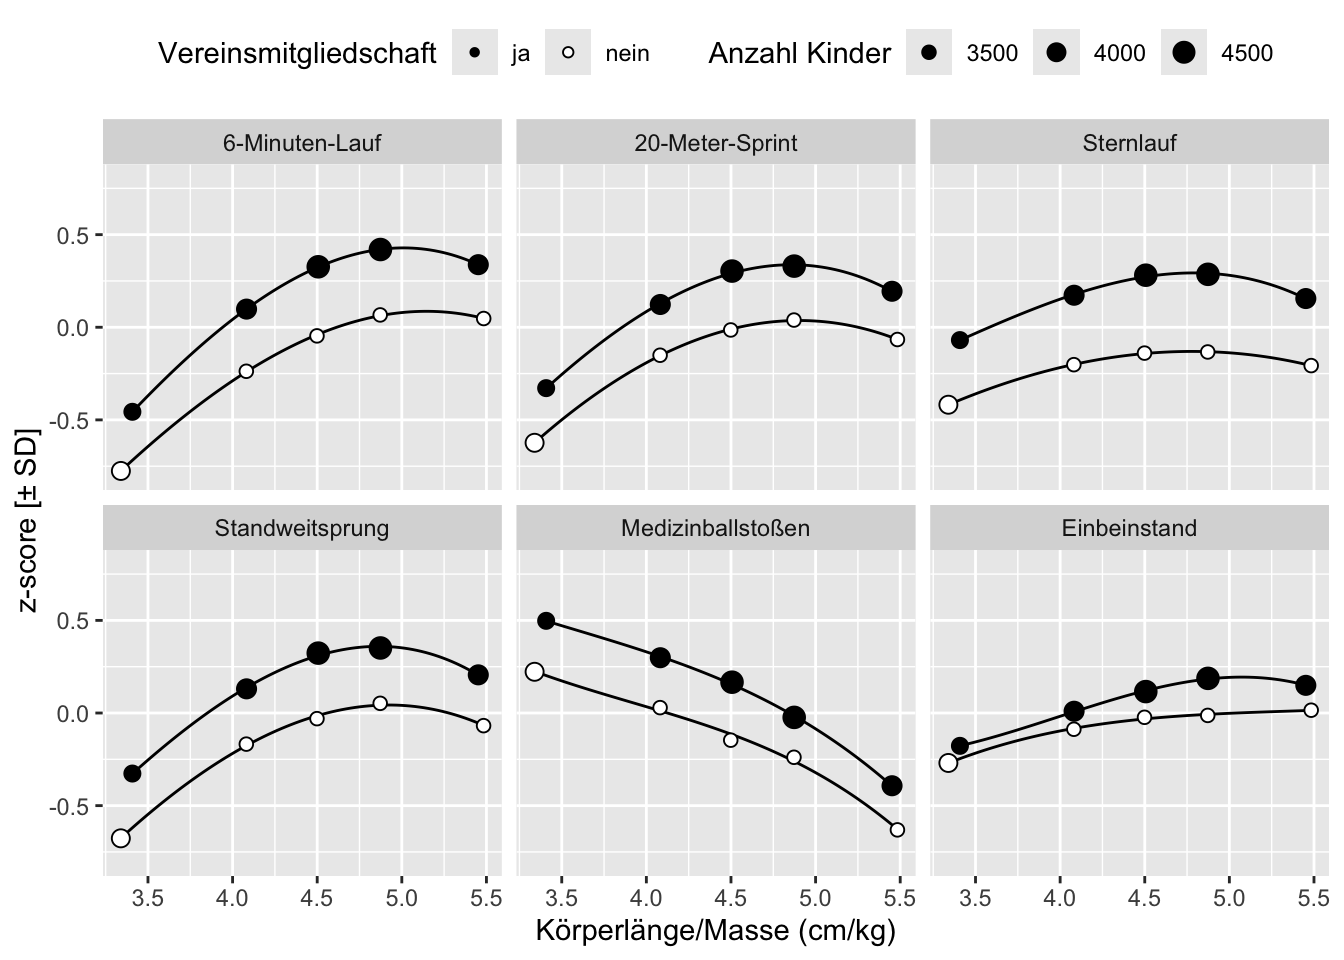
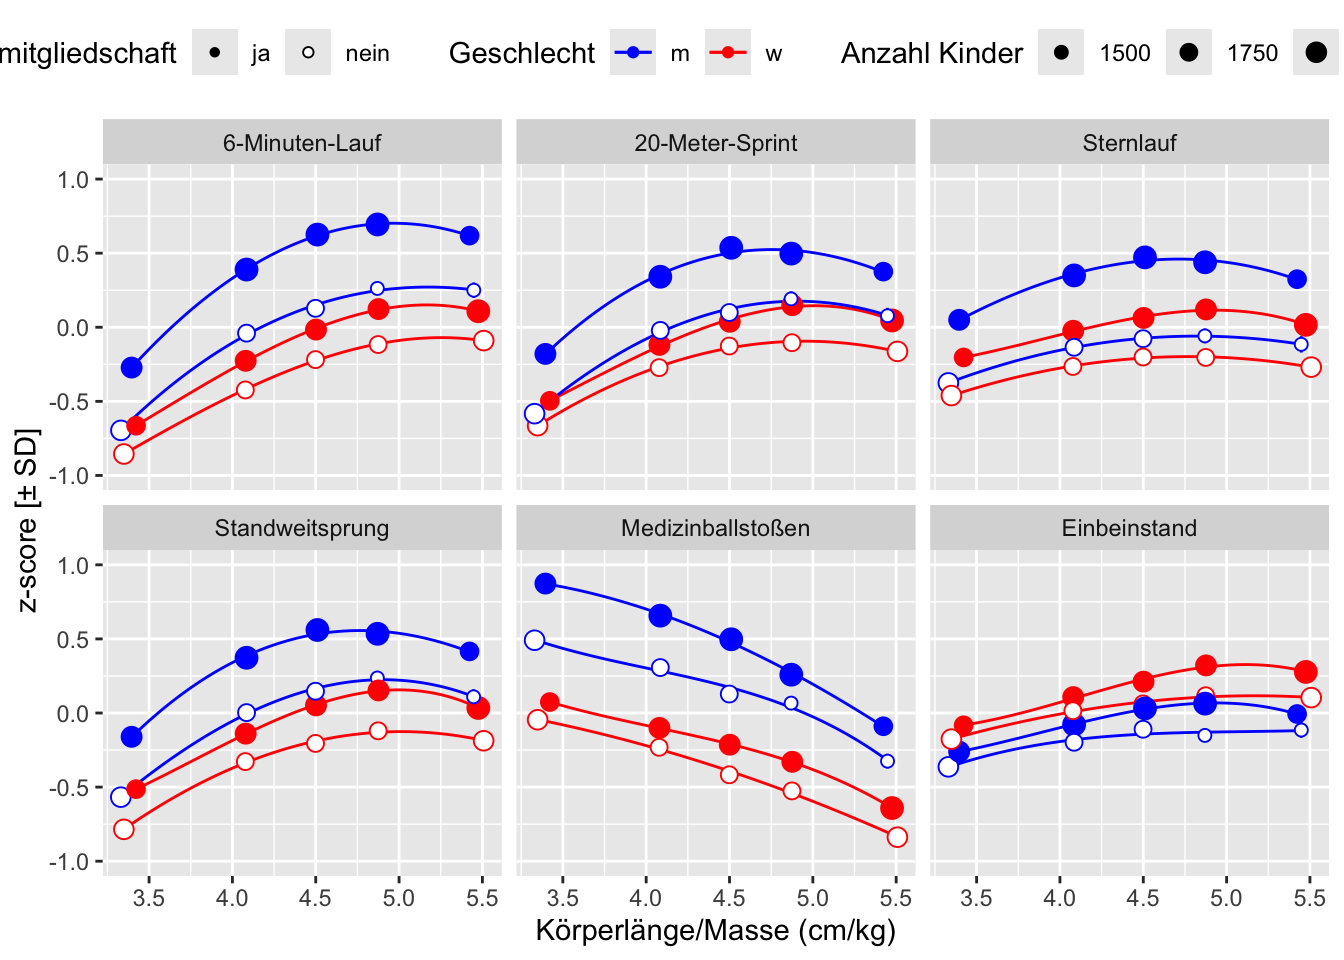
014

diff --git a/docs/014.html b/docs/014.html
@@ -289,8 +289,8 @@ ul.task-list li input[type="checkbox"] {
 <div class="cell">
 <div class="cell-output-display">
 
-<div class="reactable html-widget html-fill-item" id="htmlwidget-490af46685da29229710" style="width:auto;height:auto;"></div>
-<script type="application/json" data-for="htmlwidget-490af46685da29229710">{"x":{"tag":{"name":"Reactable","attribs":{"data":{"Component":["6-Minuten-Lauf","6-Minuten-Lauf","6-Minuten-Lauf","6-Minuten-Lauf","6-Minuten-Lauf","6-Minuten-Lauf","6-Minuten-Lauf","6-Minuten-Lauf","6-Minuten-Lauf","6-Minuten-Lauf","20-Meter-Sprint","20-Meter-Sprint","20-Meter-Sprint","20-Meter-Sprint","20-Meter-Sprint","20-Meter-Sprint","20-Meter-Sprint","20-Meter-Sprint","20-Meter-Sprint","20-Meter-Sprint","Sternlauf","Sternlauf","Sternlauf","Sternlauf","Sternlauf","Sternlauf","Sternlauf","Sternlauf","Sternlauf","Sternlauf","Standweitsprung","Standweitsprung","Standweitsprung","Standweitsprung","Standweitsprung","Standweitsprung","Standweitsprung","Standweitsprung","Standweitsprung","Standweitsprung","Medizinballstoßen","Medizinballstoßen","Medizinballstoßen","Medizinballstoßen","Medizinballstoßen","Medizinballstoßen","Medizinballstoßen","Medizinballstoßen","Medizinballstoßen","Medizinballstoßen","Einbeinstand","Einbeinstand","Einbeinstand","Einbeinstand","Einbeinstand","Einbeinstand","Einbeinstand","Einbeinstand","Einbeinstand","Einbeinstand"],"Hmr":["[2.5,3.82]","[2.5,3.82]","(3.82,4.31]","(3.82,4.31]","(4.31,4.67]","(4.31,4.67]","(4.67,5.08]","(4.67,5.08]","(5.08,6.5]","(5.08,6.5]","[2.5,3.82]","[2.5,3.82]","(3.82,4.31]","(3.82,4.31]","(4.31,4.67]","(4.31,4.67]","(4.67,5.08]","(4.67,5.08]","(5.08,6.5]","(5.08,6.5]","[2.5,3.82]","[2.5,3.82]","(3.82,4.31]","(3.82,4.31]","(4.31,4.67]","(4.31,4.67]","(4.67,5.08]","(4.67,5.08]","(5.08,6.5]","(5.08,6.5]","[2.5,3.82]","[2.5,3.82]","(3.82,4.31]","(3.82,4.31]","(4.31,4.67]","(4.31,4.67]","(4.67,5.08]","(4.67,5.08]","(5.08,6.5]","(5.08,6.5]","[2.5,3.82]","[2.5,3.82]","(3.82,4.31]","(3.82,4.31]","(4.31,4.67]","(4.31,4.67]","(4.67,5.08]","(4.67,5.08]","(5.08,6.5]","(5.08,6.5]","[2.5,3.82]","[2.5,3.82]","(3.82,4.31]","(3.82,4.31]","(4.31,4.67]","(4.31,4.67]","(4.67,5.08]","(4.67,5.08]","(5.08,6.5]","(5.08,6.5]"],"Club":["ja","nein","ja","nein","ja","nein","ja","nein","ja","nein","ja","nein","ja","nein","ja","nein","ja","nein","ja","nein","ja","nein","ja","nein","ja","nein","ja","nein","ja","nein","ja","nein","ja","nein","ja","nein","ja","nein","ja","nein","ja","nein","ja","nein","ja","nein","ja","nein","ja","nein","ja","nein","ja","nein","ja","nein","ja","nein","ja","nein"],"N":[3856,3818,4472,3358,4674,3192,4509,3030,4319,3140,3857,3828,4469,3357,4677,3192,4516,3030,4321,3142,3860,3829,4471,3360,4676,3192,4518,3032,4320,3142,3859,3829,4472,3359,4676,3193,4517,3032,4321,3143,3858,3829,4470,3360,4676,3192,4517,3032,4322,3144,3860,3829,4472,3360,4677,3193,4518,3032,4322,3144],"value":[2.49,2.36,2.71,2.57,2.8,2.65,2.84,2.7,2.81,2.69,4.41,4.28,4.59,4.48,4.67,4.54,4.68,4.56,4.62,4.52,1.93,1.82,2,1.88,2.03,1.9,2.03,1.91,1.99,1.88,121.35,114.18,130.71,124.6,134.66,127.42,135.23,129.11,132.26,126.64,4.25,4.05,4.1,3.91,4.01,3.78,3.87,3.71,3.6,3.43,15.79,14.31,18.78,17.22,20.48,18.25,21.62,18.42,21.02,18.87],"value_sd":[0.38,0.39,0.39,0.36,0.38,0.37,0.37,0.35,0.36,0.36,0.41,0.4,0.4,0.4,0.4,0.4,0.39,0.4,0.39,0.39,0.28,0.28,0.3,0.3,0.3,0.29,0.3,0.29,0.3,0.29,19.69,19.72,20.13,19.88,19.71,19.95,19.16,19.3,18.6,18.82,0.75,0.73,0.74,0.69,0.71,0.67,0.66,0.65,0.64,0.64,13.89,12.86,15.95,15.11,16.87,15.74,17.71,15.69,17.15,16.11],"Component_unit":["m/s","m/s","m/s","m/s","m/s","m/s","m/s","m/s","m/s","m/s","m/s","m/s","m/s","m/s","m/s","m/s","m/s","m/s","m/s","m/s","m/s","m/s","m/s","m/s","m/s","m/s","m/s","m/s","m/s","m/s","cm","cm","cm","cm","cm","cm","cm","cm","cm","cm","m","m","m","m","m","m","m","m","m","m","s","s","s","s","s","s","s","s","s","s"],"zScore_mean":[-0.46,-0.78,0.1,-0.24,0.33,-0.05,0.42,0.07,0.34,0.05,-0.33,-0.62,0.12,-0.15,0.3,-0.01,0.33,0.04,0.19,-0.07,-0.07,-0.42,0.17,-0.2,0.28,-0.14,0.29,-0.13,0.16,-0.21,-0.33,-0.68,0.13,-0.17,0.32,-0.03,0.35,0.05,0.21,-0.07,0.5,0.22,0.3,0.03,0.17,-0.15,-0.02,-0.24,-0.39,-0.63,-0.18,-0.27,0.01,-0.09,0.12,-0.02,0.19,-0.01,0.15,0.02]},"columns":[{"id":"Component","name":"Test","type":"factor"},{"id":"Hmr","name":"Körperlänge/Masse (cm/kg) Intervall","type":"factor"},{"id":"Club","name":"Vereinsmitgliedschaft","type":"character"},{"id":"N","name":"Anzahl Kinder","type":"numeric"},{"id":"value","name":"Mittelwert","type":"numeric"},{"id":"value_sd","name":"Standardabweichung","type":"numeric"},{"id":"Component_unit","name":"Einheit","type":"factor"},{"id":"zScore_mean","name":"zScore","type":"numeric"}],"pagination":false,"style":{"fontFamily":"Work Sans, sans-serif","fontSize":"0.75rem"},"dataKey":"8b50959dec6fc523c6f9b631bcb43260"},"children":[]},"class":"reactR_markup"},"evals":[],"jsHooks":[]}</script>
+<div class="reactable html-widget html-fill-item" id="htmlwidget-622e6b23fd4533e878f8" style="width:auto;height:auto;"></div>
+<script type="application/json" data-for="htmlwidget-622e6b23fd4533e878f8">{"x":{"tag":{"name":"Reactable","attribs":{"data":{"Component":["6-Minuten-Lauf","6-Minuten-Lauf","6-Minuten-Lauf","6-Minuten-Lauf","6-Minuten-Lauf","6-Minuten-Lauf","6-Minuten-Lauf","6-Minuten-Lauf","6-Minuten-Lauf","6-Minuten-Lauf","6-Minuten-Lauf","6-Minuten-Lauf","6-Minuten-Lauf","6-Minuten-Lauf","6-Minuten-Lauf","6-Minuten-Lauf","6-Minuten-Lauf","6-Minuten-Lauf","6-Minuten-Lauf","6-Minuten-Lauf","20-Meter-Sprint","20-Meter-Sprint","20-Meter-Sprint","20-Meter-Sprint","20-Meter-Sprint","20-Meter-Sprint","20-Meter-Sprint","20-Meter-Sprint","20-Meter-Sprint","20-Meter-Sprint","20-Meter-Sprint","20-Meter-Sprint","20-Meter-Sprint","20-Meter-Sprint","20-Meter-Sprint","20-Meter-Sprint","20-Meter-Sprint","20-Meter-Sprint","20-Meter-Sprint","20-Meter-Sprint","Sternlauf","Sternlauf","Sternlauf","Sternlauf","Sternlauf","Sternlauf","Sternlauf","Sternlauf","Sternlauf","Sternlauf","Sternlauf","Sternlauf","Sternlauf","Sternlauf","Sternlauf","Sternlauf","Sternlauf","Sternlauf","Sternlauf","Sternlauf","Standweitsprung","Standweitsprung","Standweitsprung","Standweitsprung","Standweitsprung","Standweitsprung","Standweitsprung","Standweitsprung","Standweitsprung","Standweitsprung","Standweitsprung","Standweitsprung","Standweitsprung","Standweitsprung","Standweitsprung","Standweitsprung","Standweitsprung","Standweitsprung","Standweitsprung","Standweitsprung","Medizinballstoßen","Medizinballstoßen","Medizinballstoßen","Medizinballstoßen","Medizinballstoßen","Medizinballstoßen","Medizinballstoßen","Medizinballstoßen","Medizinballstoßen","Medizinballstoßen","Medizinballstoßen","Medizinballstoßen","Medizinballstoßen","Medizinballstoßen","Medizinballstoßen","Medizinballstoßen","Medizinballstoßen","Medizinballstoßen","Medizinballstoßen","Medizinballstoßen","Einbeinstand","Einbeinstand","Einbeinstand","Einbeinstand","Einbeinstand","Einbeinstand","Einbeinstand","Einbeinstand","Einbeinstand","Einbeinstand","Einbeinstand","Einbeinstand","Einbeinstand","Einbeinstand","Einbeinstand","Einbeinstand","Einbeinstand","Einbeinstand","Einbeinstand","Einbeinstand"],"Sex":["m","m","m","m","m","m","m","m","m","m","w","w","w","w","w","w","w","w","w","w","m","m","m","m","m","m","m","m","m","m","w","w","w","w","w","w","w","w","w","w","m","m","m","m","m","m","m","m","m","m","w","w","w","w","w","w","w","w","w","w","m","m","m","m","m","m","m","m","m","m","w","w","w","w","w","w","w","w","w","w","m","m","m","m","m","m","m","m","m","m","w","w","w","w","w","w","w","w","w","w","m","m","m","m","m","m","m","m","m","m","w","w","w","w","w","w","w","w","w","w"],"Hmr":["[2.5,3.82]","[2.5,3.82]","(3.82,4.31]","(3.82,4.31]","(4.31,4.67]","(4.31,4.67]","(4.67,5.08]","(4.67,5.08]","(5.08,6.5]","(5.08,6.5]","[2.5,3.82]","[2.5,3.82]","(3.82,4.31]","(3.82,4.31]","(4.31,4.67]","(4.31,4.67]","(4.67,5.08]","(4.67,5.08]","(5.08,6.5]","(5.08,6.5]","[2.5,3.82]","[2.5,3.82]","(3.82,4.31]","(3.82,4.31]","(4.31,4.67]","(4.31,4.67]","(4.67,5.08]","(4.67,5.08]","(5.08,6.5]","(5.08,6.5]","[2.5,3.82]","[2.5,3.82]","(3.82,4.31]","(3.82,4.31]","(4.31,4.67]","(4.31,4.67]","(4.67,5.08]","(4.67,5.08]","(5.08,6.5]","(5.08,6.5]","[2.5,3.82]","[2.5,3.82]","(3.82,4.31]","(3.82,4.31]","(4.31,4.67]","(4.31,4.67]","(4.67,5.08]","(4.67,5.08]","(5.08,6.5]","(5.08,6.5]","[2.5,3.82]","[2.5,3.82]","(3.82,4.31]","(3.82,4.31]","(4.31,4.67]","(4.31,4.67]","(4.67,5.08]","(4.67,5.08]","(5.08,6.5]","(5.08,6.5]","[2.5,3.82]","[2.5,3.82]","(3.82,4.31]","(3.82,4.31]","(4.31,4.67]","(4.31,4.67]","(4.67,5.08]","(4.67,5.08]","(5.08,6.5]","(5.08,6.5]","[2.5,3.82]","[2.5,3.82]","(3.82,4.31]","(3.82,4.31]","(4.31,4.67]","(4.31,4.67]","(4.67,5.08]","(4.67,5.08]","(5.08,6.5]","(5.08,6.5]","[2.5,3.82]","[2.5,3.82]","(3.82,4.31]","(3.82,4.31]","(4.31,4.67]","(4.31,4.67]","(4.67,5.08]","(4.67,5.08]","(5.08,6.5]","(5.08,6.5]","[2.5,3.82]","[2.5,3.82]","(3.82,4.31]","(3.82,4.31]","(4.31,4.67]","(4.31,4.67]","(4.67,5.08]","(4.67,5.08]","(5.08,6.5]","(5.08,6.5]","[2.5,3.82]","[2.5,3.82]","(3.82,4.31]","(3.82,4.31]","(4.31,4.67]","(4.31,4.67]","(4.67,5.08]","(4.67,5.08]","(5.08,6.5]","(5.08,6.5]","[2.5,3.82]","[2.5,3.82]","(3.82,4.31]","(3.82,4.31]","(4.31,4.67]","(4.31,4.67]","(4.67,5.08]","(4.67,5.08]","(5.08,6.5]","(5.08,6.5]"],"Club":["ja","nein","ja","nein","ja","nein","ja","nein","ja","nein","ja","nein","ja","nein","ja","nein","ja","nein","ja","nein","ja","nein","ja","nein","ja","nein","ja","nein","ja","nein","ja","nein","ja","nein","ja","nein","ja","nein","ja","nein","ja","nein","ja","nein","ja","nein","ja","nein","ja","nein","ja","nein","ja","nein","ja","nein","ja","nein","ja","nein","ja","nein","ja","nein","ja","nein","ja","nein","ja","nein","ja","nein","ja","nein","ja","nein","ja","nein","ja","nein","ja","nein","ja","nein","ja","nein","ja","nein","ja","nein","ja","nein","ja","nein","ja","nein","ja","nein","ja","nein","ja","nein","ja","nein","ja","nein","ja","nein","ja","nein","ja","nein","ja","nein","ja","nein","ja","nein","ja","nein"],"N":[2042,1904,2357,1624,2495,1584,2344,1466,1945,1268,1813,1914,2114,1734,2178,1608,2165,1564,2374,1871,2042,1913,2355,1624,2498,1583,2348,1466,1946,1268,1814,1915,2113,1733,2178,1609,2168,1564,2375,1873,2045,1913,2357,1626,2497,1584,2350,1467,1945,1268,1814,1916,2113,1734,2178,1608,2168,1565,2375,1873,2044,1913,2357,1625,2498,1584,2349,1467,1947,1268,1814,1916,2114,1734,2177,1609,2168,1565,2374,1874,2043,1913,2356,1626,2497,1583,2349,1467,1947,1269,1814,1916,2113,1734,2178,1609,2168,1565,2375,1874,2045,1913,2357,1626,2498,1584,2350,1467,1947,1269,1814,1916,2114,1734,2178,1609,2168,1565,2375,1874],"value":[2.56,2.39,2.83,2.65,2.92,2.72,2.95,2.77,2.92,2.77,2.4,2.33,2.58,2.5,2.66,2.58,2.72,2.62,2.71,2.63,4.47,4.3,4.68,4.53,4.77,4.58,4.75,4.62,4.7,4.58,4.34,4.27,4.49,4.43,4.56,4.49,4.61,4.5,4.56,4.48,1.96,1.83,2.05,1.91,2.09,1.92,2.08,1.93,2.04,1.91,1.88,1.81,1.94,1.87,1.97,1.89,1.98,1.88,1.95,1.86,124.75,116.41,135.68,128.09,139.51,131.05,138.99,132.88,136.55,130.28,117.52,111.96,125.19,121.32,129.09,123.84,131.16,125.58,128.74,124.2,4.52,4.24,4.36,4.11,4.25,3.98,4.07,3.93,3.82,3.65,3.94,3.85,3.81,3.72,3.73,3.58,3.65,3.5,3.42,3.28,14.45,12.81,17.37,15.46,19.12,16.87,19.64,16.2,18.52,16.78,17.3,15.8,20.34,18.87,22.01,19.62,23.77,20.49,23.06,20.29],"value_sd":[0.39,0.41,0.39,0.37,0.37,0.38,0.37,0.36,0.37,0.38,0.35,0.37,0.34,0.34,0.34,0.34,0.33,0.33,0.34,0.33,0.42,0.42,0.4,0.4,0.39,0.41,0.37,0.41,0.38,0.4,0.38,0.38,0.38,0.4,0.38,0.39,0.39,0.38,0.38,0.38,0.29,0.28,0.3,0.31,0.31,0.3,0.31,0.29,0.31,0.3,0.27,0.27,0.28,0.29,0.28,0.28,0.29,0.28,0.29,0.28,20.3,20.45,19.96,19.75,19.07,20.07,18.35,19.13,18.03,18.89,18.24,18.69,18.85,19.44,18.96,19.18,19.19,18.79,18.33,18.36,0.72,0.73,0.72,0.69,0.68,0.68,0.66,0.64,0.65,0.65,0.65,0.67,0.65,0.64,0.63,0.6,0.6,0.6,0.58,0.58,13.03,11.8,15.15,13.72,16.25,15.22,16.68,14.09,15.78,15.14,14.66,13.67,16.66,16.14,17.43,16.12,18.53,16.79,17.94,16.59],"Component_unit":["m/s","m/s","m/s","m/s","m/s","m/s","m/s","m/s","m/s","m/s","m/s","m/s","m/s","m/s","m/s","m/s","m/s","m/s","m/s","m/s","m/s","m/s","m/s","m/s","m/s","m/s","m/s","m/s","m/s","m/s","m/s","m/s","m/s","m/s","m/s","m/s","m/s","m/s","m/s","m/s","m/s","m/s","m/s","m/s","m/s","m/s","m/s","m/s","m/s","m/s","m/s","m/s","m/s","m/s","m/s","m/s","m/s","m/s","m/s","m/s","cm","cm","cm","cm","cm","cm","cm","cm","cm","cm","cm","cm","cm","cm","cm","cm","cm","cm","cm","cm","m","m","m","m","m","m","m","m","m","m","m","m","m","m","m","m","m","m","m","m","s","s","s","s","s","s","s","s","s","s","s","s","s","s","s","s","s","s","s","s"],"zScore_mean":[-0.27,-0.7,0.39,-0.04,0.63,0.13,0.69,0.26,0.62,0.25,-0.66,-0.86,-0.23,-0.42,-0.02,-0.22,0.12,-0.12,0.11,-0.09,-0.18,-0.58,0.34,-0.02,0.54,0.1,0.5,0.19,0.38,0.08,-0.5,-0.66,-0.12,-0.27,0.04,-0.13,0.15,-0.1,0.05,-0.16,0.05,-0.38,0.35,-0.14,0.47,-0.08,0.44,-0.06,0.32,-0.12,-0.2,-0.46,-0.02,-0.26,0.06,-0.2,0.12,-0.2,0.02,-0.27,-0.16,-0.57,0.37,0,0.56,0.15,0.53,0.24,0.42,0.11,-0.51,-0.79,-0.14,-0.33,0.05,-0.21,0.15,-0.12,0.03,-0.19,0.87,0.49,0.66,0.31,0.5,0.13,0.26,0.07,-0.09,-0.32,0.07,-0.05,-0.1,-0.23,-0.21,-0.42,-0.33,-0.53,-0.64,-0.84,-0.26,-0.36,-0.08,-0.2,0.03,-0.11,0.06,-0.15,-0.01,-0.11,-0.08,-0.18,0.11,0.02,0.21,0.06,0.32,0.12,0.28,0.1]},"columns":[{"id":"Component","name":"Test","type":"factor"},{"id":"Sex","name":"Geschlecht","type":"character"},{"id":"Hmr","name":"Körperlänge/Masse (cm/kg) Intervall","type":"factor"},{"id":"Club","name":"Vereinsmitgliedschaft","type":"character"},{"id":"N","name":"Anzahl Kinder","type":"numeric"},{"id":"value","name":"Mittelwert","type":"numeric"},{"id":"value_sd","name":"Standardabweichung","type":"numeric"},{"id":"Component_unit","name":"Einheit","type":"factor"},{"id":"zScore_mean","name":"zScore","type":"numeric"}],"filterable":true,"pagination":false,"style":{"fontFamily":"Work Sans, sans-serif","fontSize":"0.75rem"},"dataKey":"6a8c4ce4464e33328e8c09a17133b22f"},"children":[]},"class":"reactR_markup"},"evals":[],"jsHooks":[]}</script>
 </div>
 </div>
 </div></section><section id="aktualisierungen" class="level1 appendix"><h2 class="anchored quarto-appendix-heading">Aktualisierungen</h2><div class="quarto-appendix-contents">
